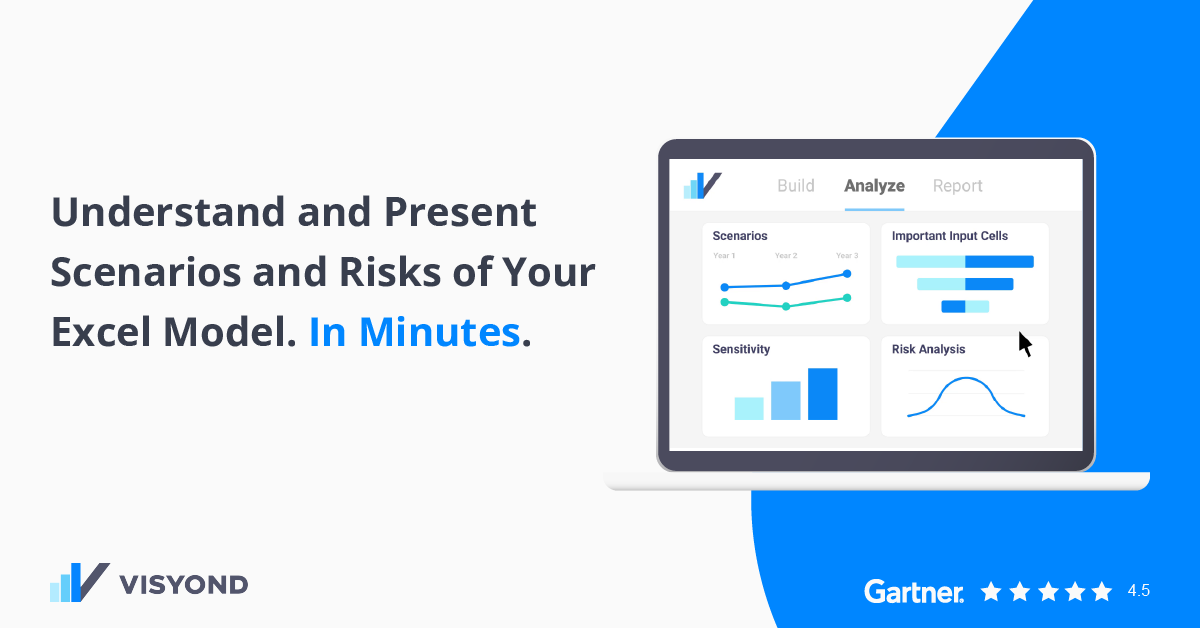
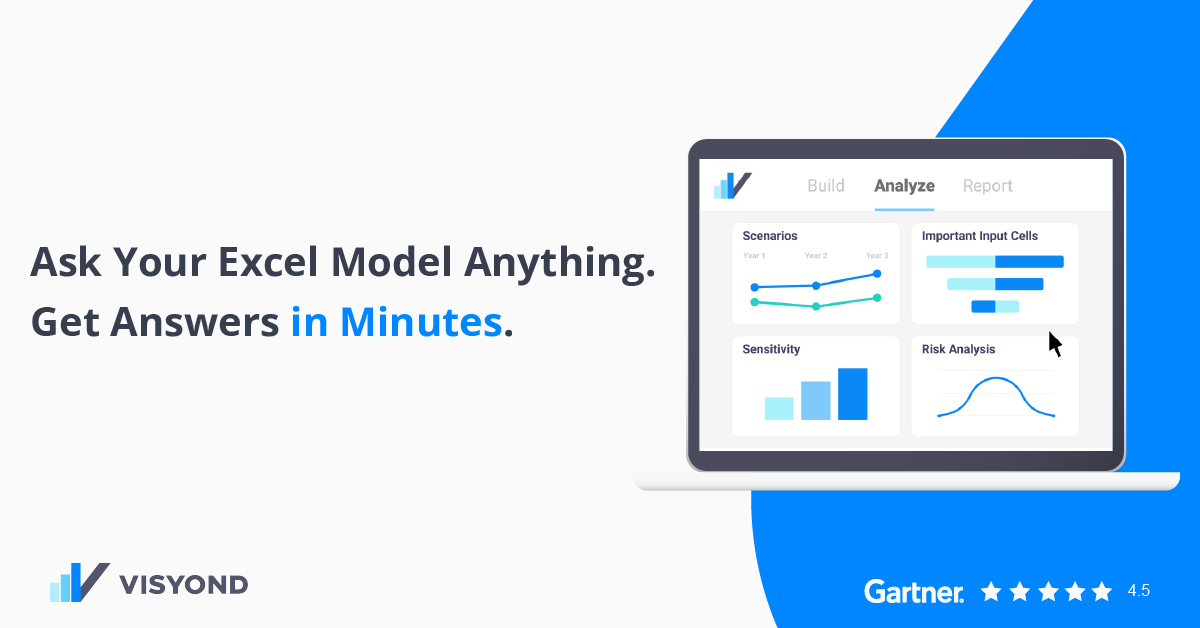
home - new title+subtitle+thumbnail

Changed region(s): [[0.0308, 0.2118, 0.9867, 0.7866], [0.0308, 0.4841, 0.4317, 0.5748], [0.0308, 0.3025, 0.4625, 0.3631]]

diff --git a/src/css/imports/_home-hex.css b/src/css/imports/_home-hex.css
@@ -136,7 +136,7 @@
 
 /*titles*/
 .home-hero__title{
-    font-size: 36px; /*34*/
+    font-size: 35px; /*34*/
     line-height: 52px; /*45*/
     color: #383e4d;
     font-weight: 900;

diff --git a/site/content/_index.md b/site/content/_index.md
@@ -11,18 +11,18 @@ aliases:
   - /solutions/
   - /features/
   - /why-visyond/
-title: Understand and Present Scenarios and Risks of Your Excel Model. In Minutes.
+title: Ask Your Excel Model Anything. Get Answers in Minutes.
 metaTags: >-
-  <meta property="og:title" content="Understand and Present Scenarios and Risks of Your Excel Model. In Minutes.">
+  <meta property="og:title" content="Ask Your Excel Model Anything. Get Answers in Minutes.">
   <meta property="og:type" content="website">
   <meta property="og:image" content="https://visyond.com/img/thumbnails/Thumbnail - Homepage 2022.png">
-  <meta property="og:description" content="Visualize your spreadsheets as interactive ‘what-if’ dashboards for forecasting, and automate Sensitivities, Scenarios and Monte Carlo Simulations.">
+  <meta property="og:description" content="Visualize your spreadsheets as predictive dashboards, automate Financial Statements, What-if and Risk analyses.">
   <meta property="og:url" content="https://visyond.com">
-  <meta name="description" content="Visualize your spreadsheets as interactive ‘what-if’ dashboards for forecasting, and automate Sensitivities, Scenarios and Monte Carlo Simulations.">
+  <meta name="description" content="Visualize your spreadsheets as predictive dashboards, automate Financial Statements, What-if and Risk analyses.">
 topTitle: >-
-  Understand and Present Scenarios and Risks of Your Excel Model. <span style="color: #0086ff;">In Minutes</span>.
+  Ask Your Excel Model Anything. Get Answers <span style="color: #0086ff;">in Minutes</span>.
 topDescription: >-
-  <div class="home-hero__topSubtitle-subtitle">Visualize your spreadsheets as interactive ‘what-if’ dashboards for forecasting, and automate Sensitivities, Scenarios and Monte Carlo Simulations.</div>
+  <div class="home-hero__topSubtitle-subtitle">Visualize your spreadsheets as predictive dashboards, automate Financial Statements, What-if and Risk analyses.</div>
 StepsHeader: >-
       3 Simple Steps to Save Countless Hours
 StepsBlock:
